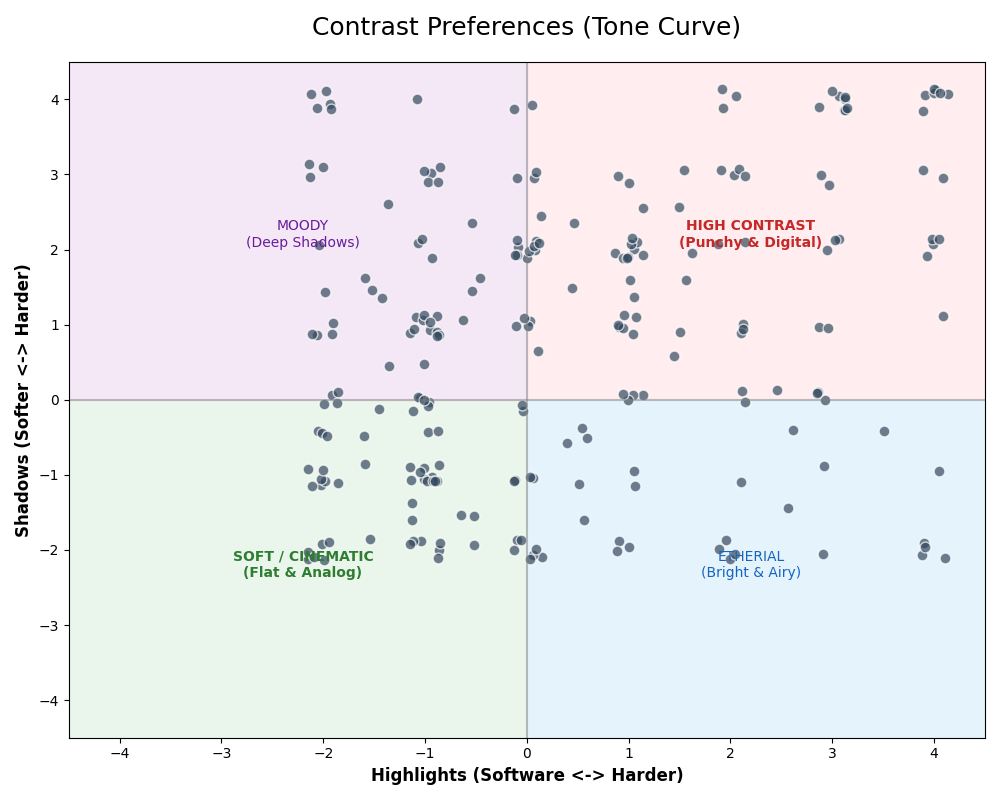
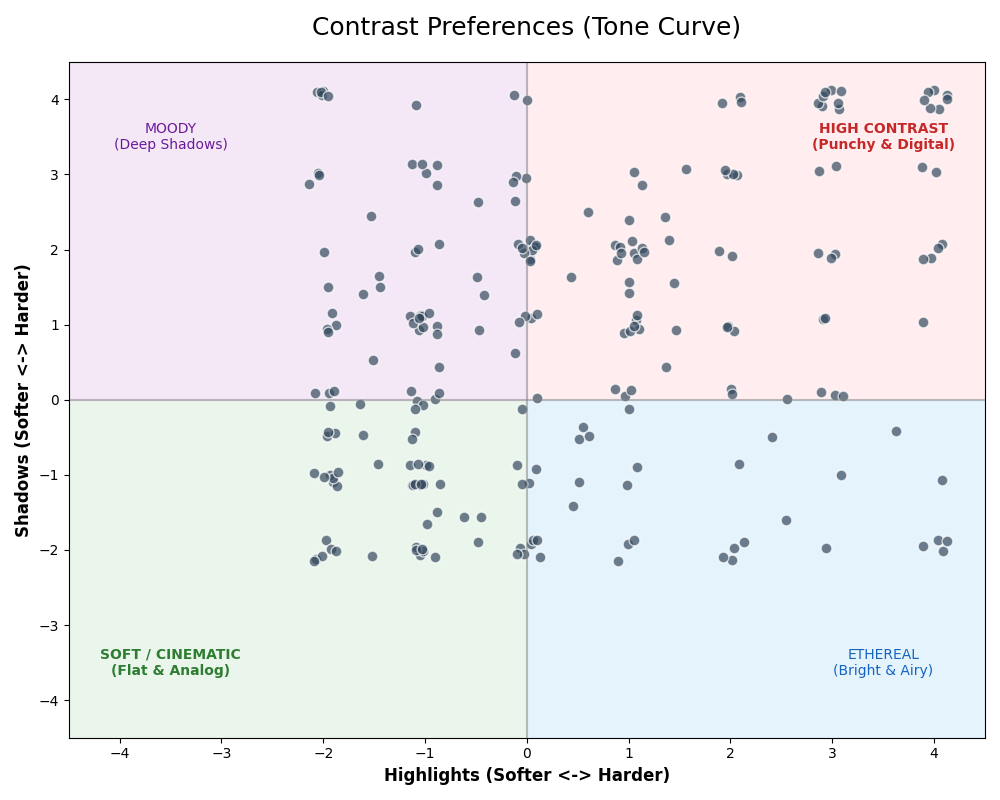
Fix typos and layout in Contrast Graph, clarify explanation in index.html

diff --git a/index.html b/index.html
@@ -548,14 +548,14 @@
             <p>How does the community handle contrast? The data shows a preference for the "S-Curve".</p>
 
             <div class="tech-analysis">
-                <h4>Technical Analysis</h4>
+                <h4>Collective Wisdom: The "Film S-Curve"</h4>
                 <ul>
-                    <li><strong><span style="color: #2e7d32;">●</span> Soft / Cinematic (Bottom-Left):</strong> Most
-                        users push Shadows to be slightly soft (-1) while keeping Highlights neutral. This mimics
-                        the
-                        low-contrast look of motion picture film.</li>
-                    <li><strong><span style="color: #c62828;">●</span> High Contrast (Top-Right):</strong> Used
-                        sparingly for "Punchy" street photography (like Ricoh GR simulations).</li>
+                    <li><strong>Highlights (+):</strong> Unlike digital (which clips), film users want punchy highlights
+                        (+1). This is "Harder" contrast.</li>
+                    <li><strong>Shadows (-):</strong> To keep detail in the blacks, users push shadows to be "Softer"
+                        (-1).</li>
+                    <li><strong>Result:</strong> An "S-Curve" (Hard Highlights + Soft Shadows). This creates a cinematic
+                        look that retains detail while still looking dramatic.</li>
                 </ul>
             </div>
 

diff --git a/analyze_trends.py b/analyze_trends.py
@@ -341,19 +341,19 @@ def analyze_trends():
     # Quadrants
     # Bottom-Left: -H -S = Soft/Flat
     plt.fill_between([-5, 0], -5, 0, color='#e8f5e9', alpha=0.9) # Green-ish
-    plt.text(-2.2, -2.2, "SOFT / CINEMATIC\n(Flat & Analog)", ha='center', va='center', fontweight='bold', color='#2e7d32')
+    plt.text(-3.5, -3.5, "SOFT / CINEMATIC\n(Flat & Analog)", ha='center', va='center', fontweight='bold', color='#2e7d32', fontsize=10)
     
     # Top-Right: +H +S = Hard/Punchy
     plt.fill_between([0, 5], 0, 5, color='#ffebee', alpha=0.9) # Red-ish
-    plt.text(2.2, 2.2, "HIGH CONTRAST\n(Punchy & Digital)", ha='center', va='center', fontweight='bold', color='#c62828')
+    plt.text(3.5, 3.5, "HIGH CONTRAST\n(Punchy & Digital)", ha='center', va='center', fontweight='bold', color='#c62828', fontsize=10)
     
     # Top-Left: -H +S = Dark Shadows, Soft Highlights
     plt.fill_between([-5, 0], 0, 5, color='#f3e5f5', alpha=0.9)
-    plt.text(-2.2, 2.2, "MOODY\n(Deep Shadows)", ha='center', va='center', color='#6a1b9a')
+    plt.text(-3.5, 3.5, "MOODY\n(Deep Shadows)", ha='center', va='center', color='#6a1b9a', fontsize=10)
     
     # Bottom-Right: +H -S = Bright Highlights, Light Shadows
     plt.fill_between([0, 5], -5, 0, color='#e3f2fd', alpha=0.9)
-    plt.text(2.2, -2.2, "ETHERIAL\n(Bright & Airy)", ha='center', va='center', color='#1565c0')
+    plt.text(3.5, -3.5, "ETHEREAL\n(Bright & Airy)", ha='center', va='center', color='#1565c0', fontsize=10)
     
     # Jitter points
     j_h = [x + np.random.uniform(-0.15, 0.15) for x in df_contrast['H']]
@@ -365,10 +365,47 @@ def analyze_trends():
     plt.axvline(0, color='gray', linestyle='-', alpha=0.5)
     
     plt.title('Contrast Preferences (Tone Curve)', fontsize=18, pad=20)
-    plt.xlabel('Highlights (Software <-> Harder)', fontsize=12, fontweight='bold')
+    plt.xlabel('Highlights (Softer <-> Harder)', fontsize=12, fontweight='bold')
     plt.ylabel('Shadows (Softer <-> Harder)', fontsize=12, fontweight='bold')
     plt.tight_layout()
     plt.savefig('images/contrast_map.png')
+    plt.close()
+
+    # 13. The Organic Index (Sharpness vs Noise Reduction)
+    print("Generating images/sharpness_nr_corr.png...")
+    query_org = "SELECT sharpness, noise_reduction FROM recipes"
+    df_org = pd.read_sql_query(query_org, conn)
+    
+    df_org['S'] = df_org['sharpness'].apply(parse_setting_val)
+    df_org['NR'] = df_org['noise_reduction'].apply(parse_setting_val)
+    
+    plt.figure(figsize=(10, 8))
+    plt.xlim(-4.5, 4.5)
+    plt.ylim(-4.5, 4.5)
+    
+    # Quadrants
+    # Bottom-Left: -Sharpness -NR = The "Analog/Organic" Zone
+    plt.fill_between([-5, 0], -5, 0, color='#e0f2f1', alpha=0.9) # Teal-ish
+    plt.text(-2.2, -2.2, "ORGANIC / ANALOG\n(Grainy & Soft)", ha='center', va='center', fontweight='bold', color='#00695c')
+    
+    # Top-Right: +Sharpness +NR = The "Plastic/Digital" Zone
+    plt.fill_between([0, 5], 0, 5, color='#ffebee', alpha=0.9) # Red-ish
+    plt.text(2.2, 2.2, "PLASTIC / DIGITAL\n(Smooth & Sharpened)", ha='center', va='center', fontweight='bold', color='#c62828')
+    
+    # Jitter points
+    j_s = [x + np.random.uniform(-0.15, 0.15) for x in df_org['S']]
+    j_nr = [y + np.random.uniform(-0.15, 0.15) for y in df_org['NR']]
+    
+    plt.scatter(j_s, j_nr, c='#004d40', alpha=0.6, edgecolors='white', s=60, zorder=2)
+    
+    plt.axhline(0, color='gray', linestyle='-', alpha=0.5)
+    plt.axvline(0, color='gray', linestyle='-', alpha=0.5)
+    
+    plt.title('The "Organic Index" (Sharpness vs NR)', fontsize=18, pad=20)
+    plt.xlabel('Sharpness (Soft <-> Sharp)', fontsize=12, fontweight='bold')
+    plt.ylabel('Noise Reduction (Grainy <-> Smooth)', fontsize=12, fontweight='bold')
+    plt.tight_layout()
+    plt.savefig('images/sharpness_nr_corr.png')
     plt.close()
 
 if __name__ == "__main__":
